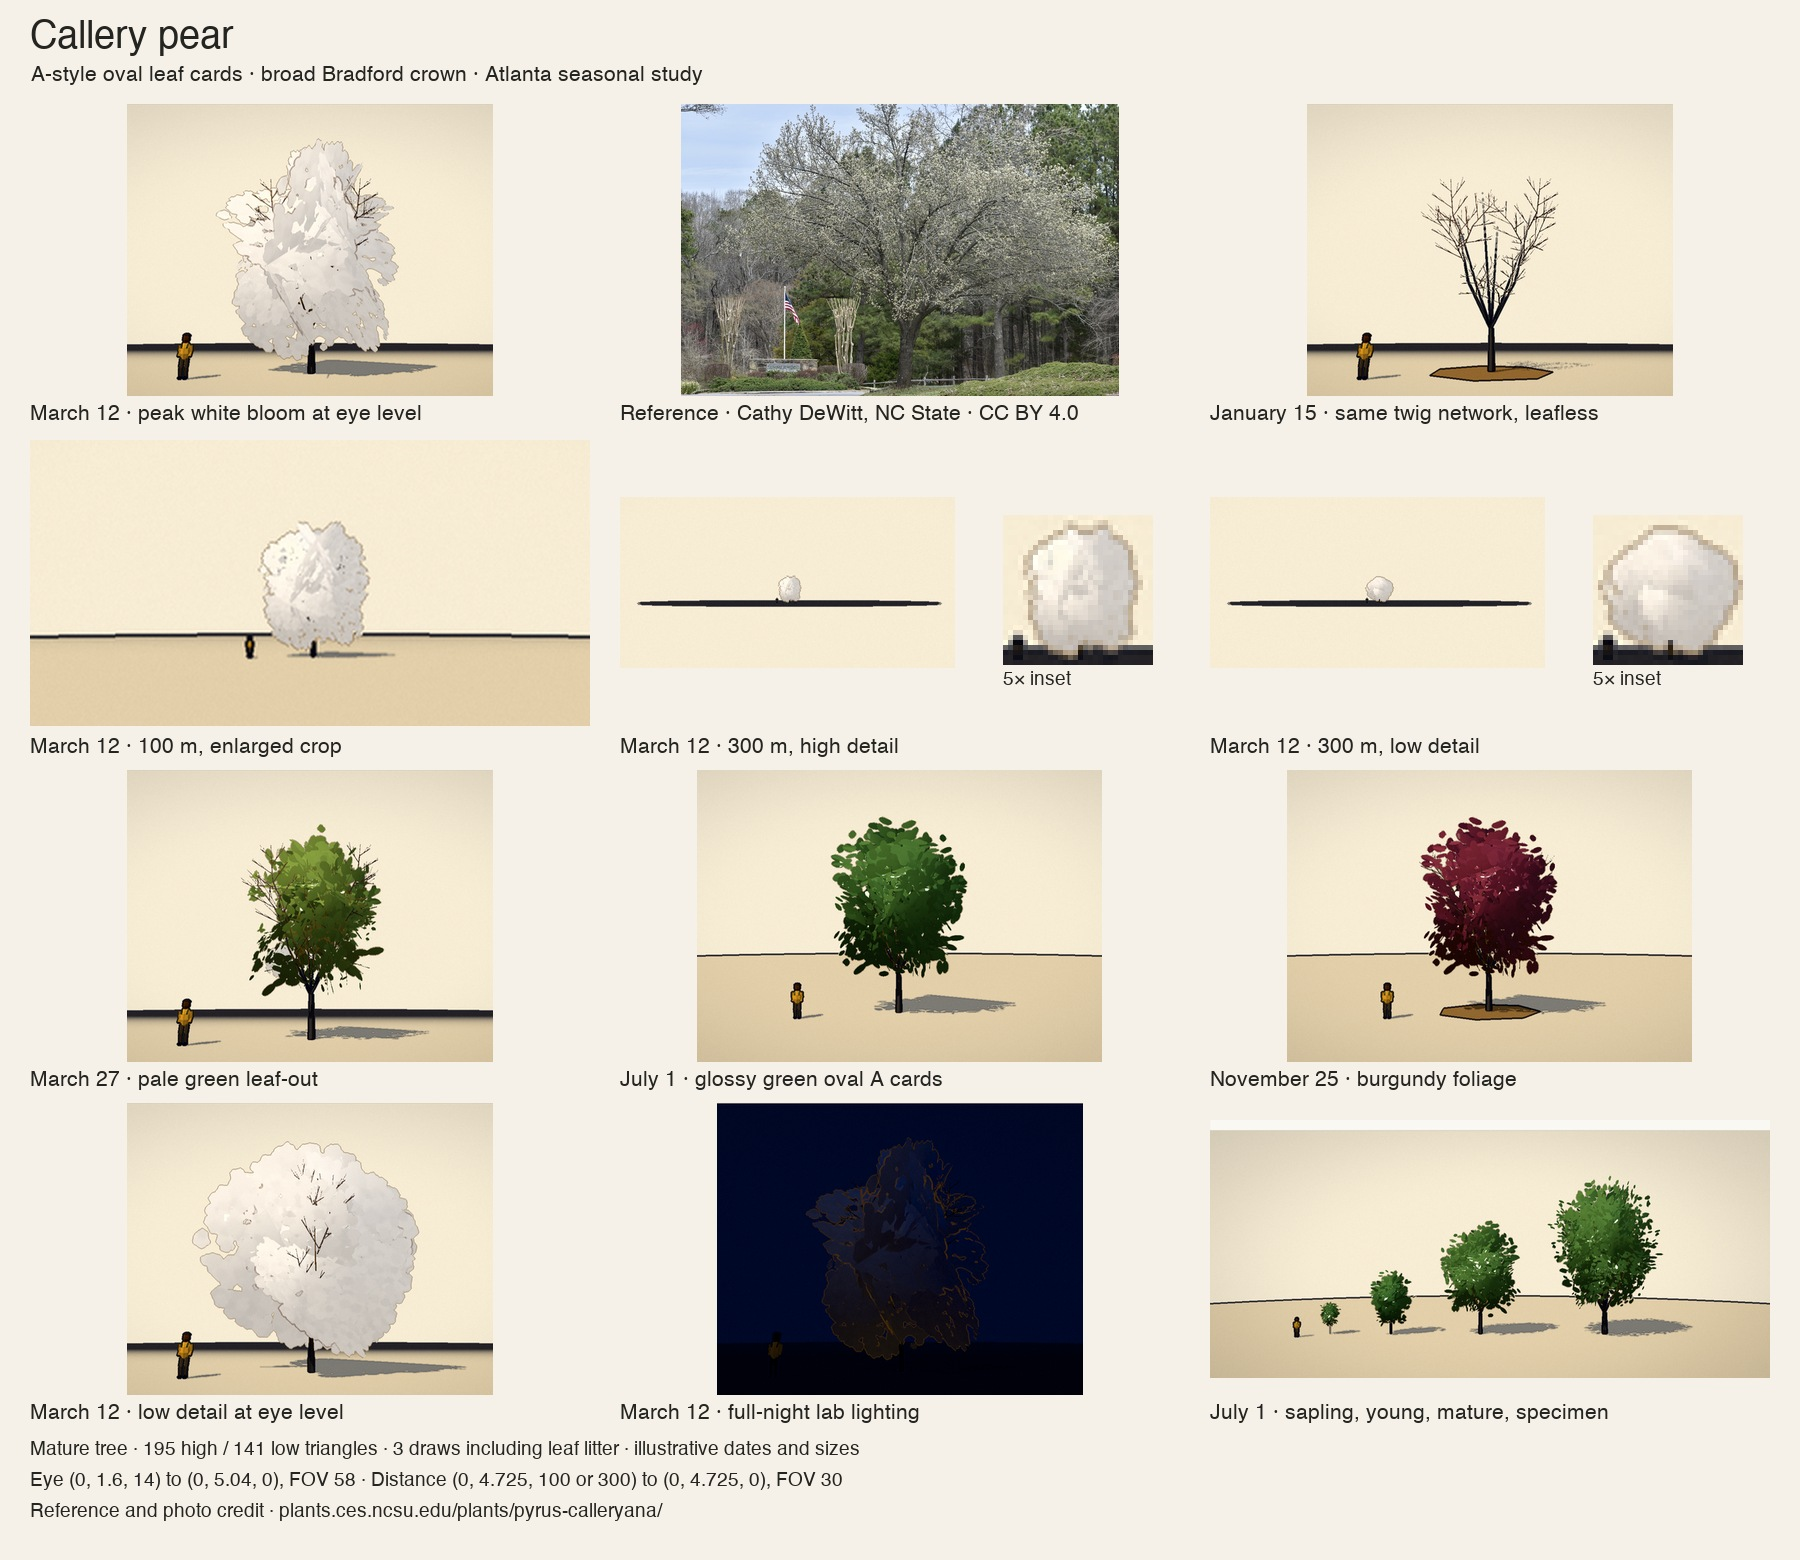
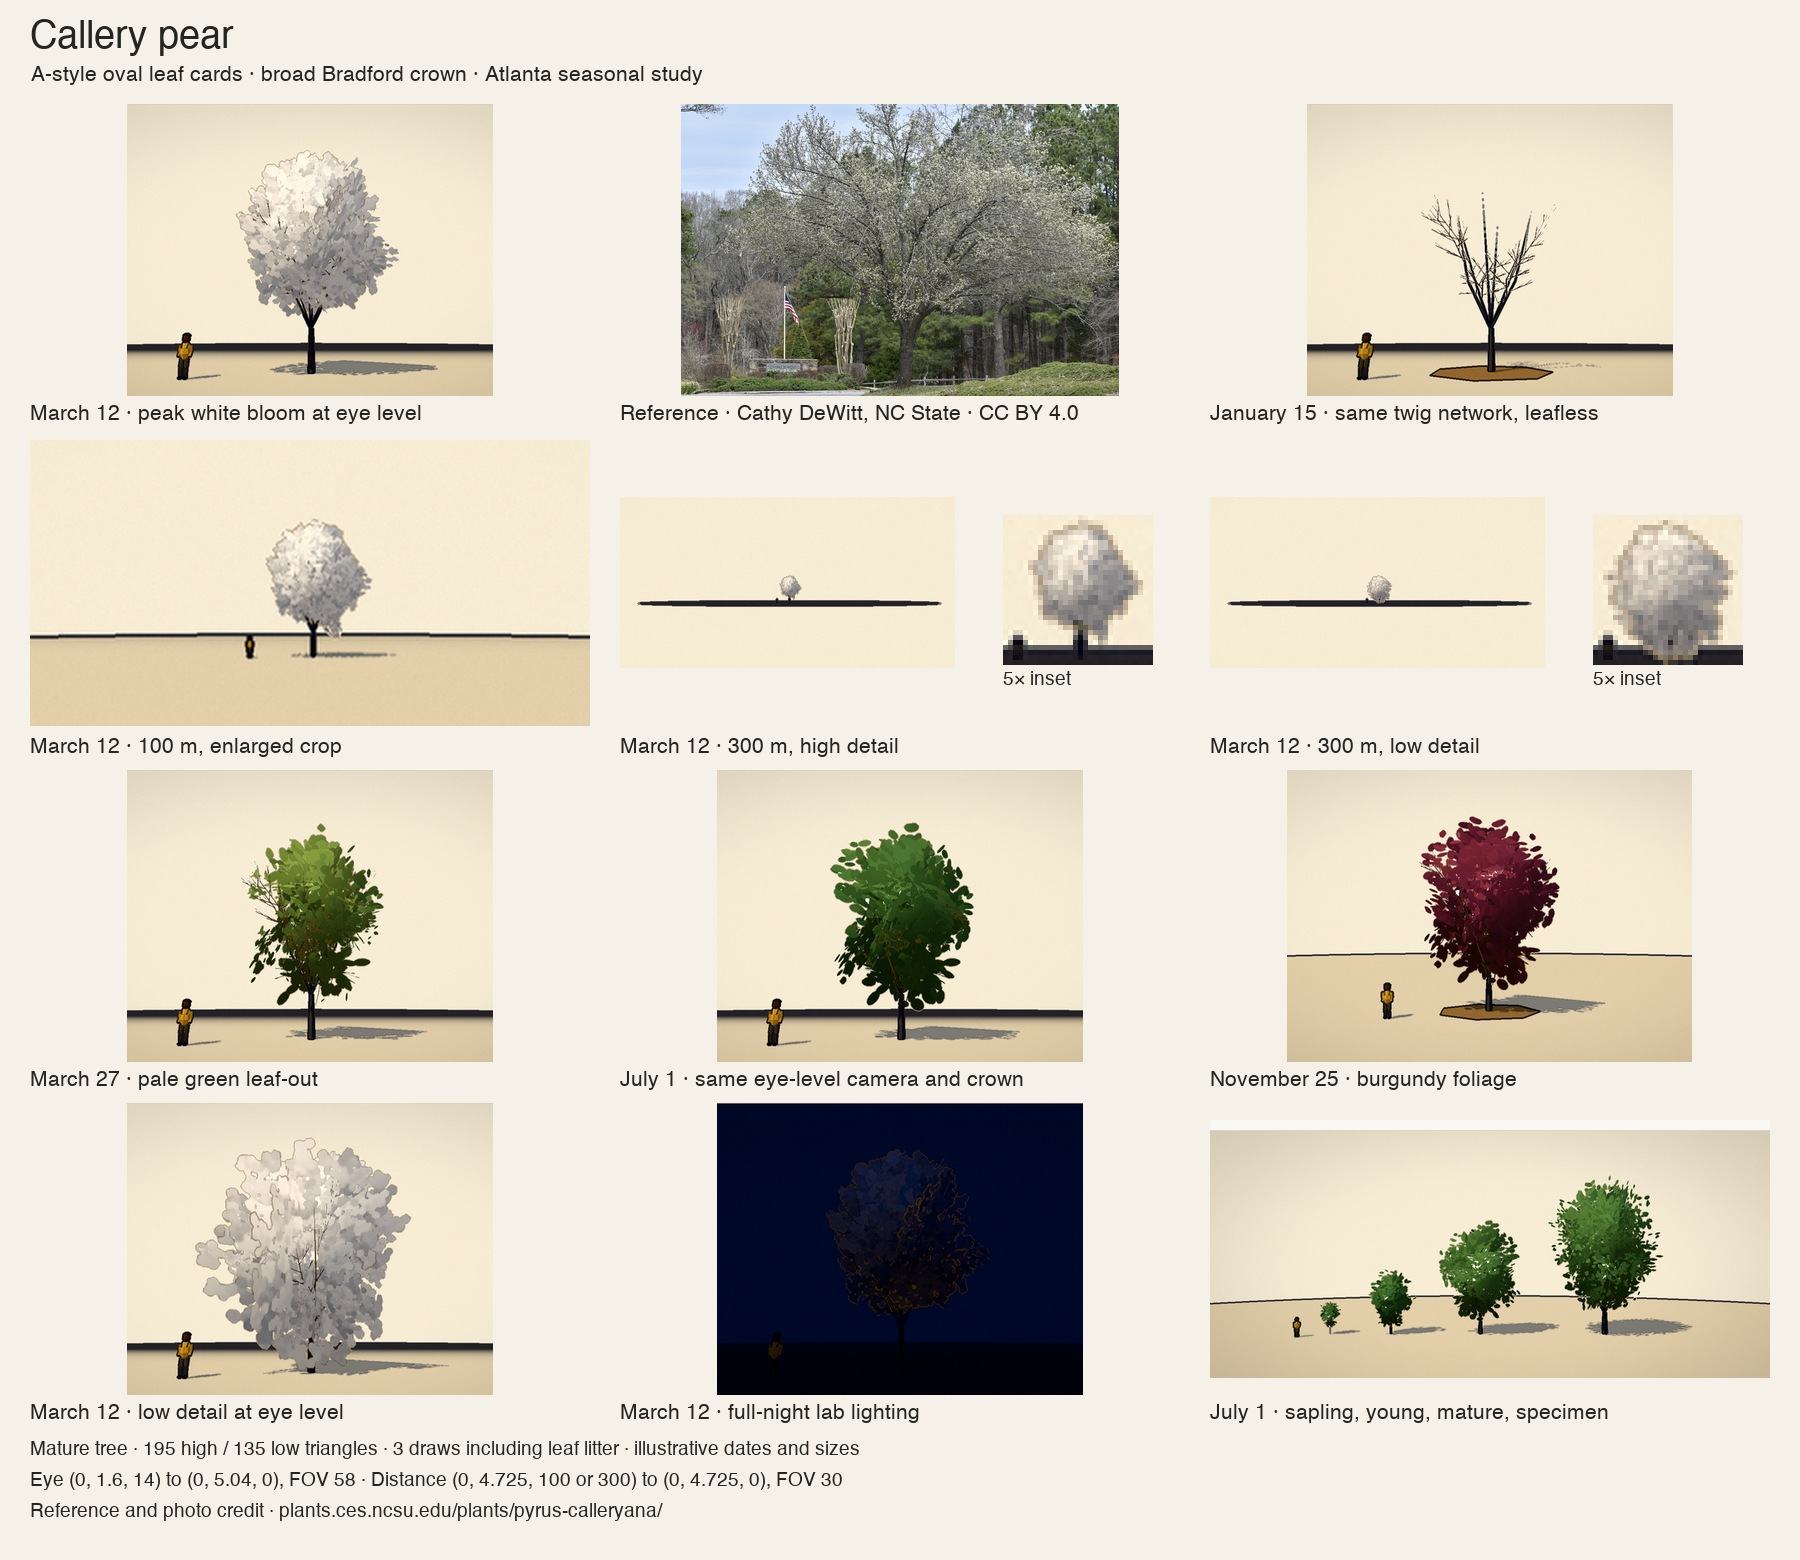
Break Callery pear bloom into shaded flower clusters

diff --git a/web/src/trees/foliage-kit.ts b/web/src/trees/foliage-kit.ts
@@ -357,7 +357,7 @@ export function twoToneFoliage({ bloomWash = 0, bloomLift = 0, bloomFill = 0, sp
       .replace('#include <project_vertex>', '#include <project_vertex>\nvFacePos = mvPosition.xyz;')
       .replace('#include <begin_vertex>', `#include <begin_vertex>
 vLeaves = aLeaves;
-vChip = aMass.z != 0.0 ? 1.0 : 0.0;
+vChip = aMass.z > 0.0 && aMass.y < 0.0 ? 2.0 : (aMass.z != 0.0 ? 1.0 : 0.0);
 if (aMass.z > 0.0) { if (aMass.z > aBloom.a) transformed = vec3(0.0); }
 if (aMass.z < 0.0 && aLeaves >= aMass.y) transformed = vec3(0.0);
 ${textured ? '' : 'else if (aMass.z == 0.0 && aMass.y > aLeaves) transformed = vec3(0.0);'}`);
@@ -373,6 +373,7 @@ ${textured ? '' : 'else if (aMass.z == 0.0 && aMass.y > aLeaves) transformed = v
         // (it also clears dark, steeply angled cards from the crown's interior).
         ? `float facing = abs(dot(normalize(cross(dFdx(vFacePos), dFdy(vFacePos))), normalize(vFacePos)));
 if (vChip < 0.5) diffuseColor.a *= smoothstep(0.12, 0.35, facing);
+if (vChip > 1.5) diffuseColor.a *= smoothstep(0.16, 0.48, facing);
 #include <alphatest_fragment>
 if (vChip < 0.5 && (vLeaves < 0.02 || diffuseColor.a < 1.0 - 0.44 * vLeaves - 0.005)) discard;`
         : '#include <alphatest_fragment>');
@@ -385,7 +386,7 @@ if (vChip < 0.5 && (vLeaves < 0.02 || diffuseColor.a < 1.0 - 0.44 * vLeaves - 0.
       sh.fragmentShader = sh.fragmentShader.replace('#include <map_fragment>', `#ifdef USE_MAP
   vec4 texel = texture2D(map, vMapUv);
   diffuseColor.a *= texel.a;
-  diffuseColor.rgb *= mix(1.0, texel.r, 0.25);
+  diffuseColor.rgb *= vChip > 1.5 ? texel.r : mix(1.0, texel.r, 0.25);
 #endif`);
     }
     if (specks > 0 && textured) {
@@ -507,25 +508,31 @@ function paintBranchFans(g: CanvasRenderingContext2D, ox: number, oy: number, wi
   }
 }
 
-/** Overlapping white corymbs in the pear's flower tile, with a loose edge and a dense centre. */
+/** A spray of small corymbs, separated by narrow gaps even at peak bloom. */
 function paintFlowerMass(g: CanvasRenderingContext2D, ox: number, oy: number) {
   const random = rng(712);
-  for (let i = 0; i < 480; i++) {
-    const a = random() * Math.PI * 2;
-    const r = 48 * Math.sqrt(random());
-    const x = ox + 54 + Math.cos(a) * r;
-    const y = oy + 54 + Math.sin(a) * r * 0.93;
-    const turn = random() * Math.PI;
-    const petal = 1.15 + random() * 0.9;
-    g.fillStyle = i % 7 === 0 ? '#ddd' : i % 3 === 0 ? '#eee' : '#fff';
-    g.beginPath();
-    for (let k = 0; k < 5; k++) {
-      const angle = turn + k * Math.PI * 2 / 5;
-      const px = x + Math.cos(angle) * petal, py = y + Math.sin(angle) * petal;
-      g.moveTo(px + petal, py);
-      g.arc(px, py, petal, 0, Math.PI * 2);
+  for (let i = 0; i < 76; i++) {
+    const angle = i * Math.PI * (3 - Math.sqrt(5));
+    const r = 47 * Math.sqrt((i + random()) / 76);
+    const x = ox + 54 + Math.cos(angle) * r + (random() - 0.5) * 5;
+    const y = oy + 54 + Math.sin(angle) * r * 0.93 + (random() - 0.5) * 5;
+    const grey = 202 + Math.floor(random() * 53);
+    for (let j = 0; j < 9; j++) {
+      const a = random() * Math.PI * 2;
+      const dist = 4.9 * Math.sqrt(random());
+      const px = x + Math.cos(a) * dist, py = y + Math.sin(a) * dist;
+      const petal = 0.8 + random() * 0.65;
+      const value = Math.min(255, grey + Math.floor(random() * 24));
+      g.fillStyle = `rgb(${value},${value},${value})`;
+      g.beginPath();
+      for (let k = 0; k < 5; k++) {
+        const turn = a + k * Math.PI * 2 / 5;
+        const fx = px + Math.cos(turn) * petal, fy = py + Math.sin(turn) * petal;
+        g.moveTo(fx + petal, fy);
+        g.arc(fx, fy, petal, 0, Math.PI * 2);
+      }
+      g.fill();
     }
-    g.fill();
   }
 }
 
@@ -537,21 +544,25 @@ export function crownBlossoms(b: FoliageBuilder, units: Unit[], seed: number) {
   const random = rng(seed);
   const up = new THREE.Vector3(0, 1, 0);
   const uv = fanUV(BLOOM_X);
+  const crownTop = Math.max(...units.map(u => u.c[1]));
   for (const [i, u] of units.entries()) {
     const c = new THREE.Vector3(...u.c);
-    const normal = new THREE.Vector3(...u.n).setY((random() - 0.5) * 1.25);
+    const normal = new THREE.Vector3(...u.n).setY((random() - 0.5) * 0.95).applyAxisAngle(up, (random() - 0.5) * 1.3);
     if (normal.lengthSq() < 0.05) normal.set(Math.cos(u.tone * 8), 0.3, Math.sin(u.tone * 8));
     normal.normalize();
     const across = up.clone().cross(normal).normalize();
     const rise = normal.clone().cross(across);
     // Dense cards fall away before leaf-out. A small late cluster can linger on the wood.
-    const w = u.r * (i === 0 ? 0.46 : 1.5);
+    const w = u.r * (i === 0 ? 0.43 : 1.28);
     const p = [[-1, -1], [1, -1], [1, 1], [-1, 1]].map(([x, y]) =>
       c.clone().addScaledVector(across, x * w).addScaledVector(rise, y * w * 0.99));
     const order = 0.24 + random() * 0.74;
     const opensAt = i === 0 ? 0.045 : order;
-    b.tri([p[0], p[1], p[2]], WHITE, u, [uv[0], uv[1], uv[2]], opensAt);
-    b.tri([p[0], p[2], p[3]], WHITE, u, [uv[0], uv[2], uv[3]], opensAt);
+    const colour = WHITE.clone().multiplyScalar(0.70 + 0.30 * Math.min(1, u.c[1] / crownTop));
+    // Negative drop is reserved for blossom cards that carry their own texture shading.
+    const petal = { tone: u.tone, drop: -1 };
+    b.tri([p[0], p[1], p[2]], colour, petal, [uv[0], uv[1], uv[2]], opensAt);
+    b.tri([p[0], p[2], p[3]], colour, petal, [uv[0], uv[2], uv[3]], opensAt);
   }
 }
 
@@ -591,9 +602,9 @@ export function branchBlooms(b: FoliageBuilder, segs: Seg[], d: Dims, seed: numb
     const turn = i % 4 === 1 ? -1 : 1;
     walk(inner, 0.64, turn * 0.98, 0.42, 0.19);
     walk(outer, 0.24, -turn * 0.65, 0.56, 0.32);
-    walk(outer, 0.68, turn * 0.36, 0.42, 0.22);
+    if (withFlowers) walk(outer, 0.68, turn * 0.36, 0.42, 0.22);
     // Shoots from opposing boughs fill the interior without making a solid canopy.
-    if (i === 1 || i === 5) walk(outer, 0.49, Math.PI - turn * 0.37, 0.53, 0.29);
+    if (withFlowers && (i === 1 || i === 5)) walk(outer, 0.49, Math.PI - turn * 0.37, 0.53, 0.29);
   }
 }
 

diff --git a/web/src/trees/callery-pear.ts b/web/src/trees/callery-pear.ts
@@ -8,7 +8,7 @@ const habit: Habit = {
   trunkTop: 0.25, crownBase: 0.13, widest: 0.36,
   limbs: { high: 4, low: 3 }, limbAngle: 1.1, limbFrom: [0.24, 0.37], limbReach: 0.9,
   ragged: 0.065, bark: '#736c65', barkDark: '#605a54',
-  mass: { r: 0.68, low: -0.76, high: 0.77 },
+  mass: { r: 0.63, low: -0.87, high: 0.77 },
   tiers: { high: [3, 4, 2], low: [3, 2, 1] },
   bySize: {
     sapling: { crownBase: 0.21, widest: 0.49 },
@@ -74,8 +74,8 @@ export const calleryPear: typeof base = {
 };
 export const calleryPearLook: Look = {
   species: calleryPear, habit, leaf: 'oval', palette,
-  bloomColour, bloomFill: 0.52, branchBloom: 'crown',
+  bloomColour, bloomFill: 0.29, branchBloom: 'crown',
   options: [{ id: 'A', label: 'Broad teardrop crown', technique: 'cards', ink: 2, specks: 0.05,
-    units: { high: 20, low: 13 }, cover: 1.12,
+    units: { high: 20, low: 13 }, cover: 1.2,
     note: 'Low upright boughs carry a full crown of white March bloom, glossy oval leaves in July and late burgundy foliage.' }],
 };

diff --git a/web/src/trees/looks.ts b/web/src/trees/looks.ts
@@ -218,10 +218,7 @@ export function lookFoliage(look: Look, opt: LookOption, size: SizeClass, q: Tre
   const clusters = lookClusters(look, opt, size, q, opt.units[q], seed);
   const b = new FoliageBuilder();
   if (look.branchBloom) branchBlooms(b, look.species.form(size, q, d).segs, d, seed, look.branchBloom === 'twigs');
-  if (look.branchBloom === 'crown') {
-    const flowerClusters = lookClusters(look, opt, size, q, q === 'high' ? 14 : 11, seed + 7);
-    crownBlossoms(b, flowerClusters, seed + 8);
-  }
+  if (look.branchBloom === 'crown') crownBlossoms(b, clusters, seed + 8);
   if (opt.blooms && (look.bloomColour || look.bloomColours)) blooms(b, clusters, opt.blooms[q], seed + 9, look.bloomSizeM);
   if (opt.technique === 'lobes') lobes(b, clusters, seed, opt.facets, opt.squash);
   else if (opt.technique === 'stars') needleStars(b, clusters, seed);

diff --git a/docs/tree-species.md b/docs/tree-species.md
@@ -926,10 +926,10 @@ Mature-tree cost is 193 / 138 triangles at high / low detail, including 56 / 44 
 
 ### Callery pear
 
-`web/src/trees/callery-pear.ts`, *Pyrus calleryana*. The first Model Lab study depicts the planted Bradford form. A has a low, full teardrop crown with crowded upright boughs. Larger sizes fork about 2 m up. Spring petal cards pack the crown with white corymbs until leaf-out. Summer uses glossy oval leaf cards on the same envelope. A few branch tips show through peak bloom, and twig planes simplify the winter branching. Small fruit and broken limbs are omitted. [Seasonal and distance sheet](log/ui/tree-species/options-callery-pear.jpg).
+`web/src/trees/callery-pear.ts`, *Pyrus calleryana*. The first Model Lab study depicts the planted Bradford form. A has a low, full teardrop crown with crowded upright boughs. Larger sizes fork about 2 m up. Spring and summer share the same crown clusters, with glossy oval leaves in summer and textured white corymbs in March. Spring uses alpha-cut cards with opaque petals, small gaps, and brighter tops over grey shaded undersides. The gaps reveal some grey-brown wood, and twig planes simplify the winter branching. Small fruit and broken limbs are omitted. [Seasonal and distance sheet](log/ui/tree-species/options-callery-pear.jpg).
 
 [NC State Extension](https://content.ces.ncsu.edu/callery-pear-bradford-pear-other-varieties-and-their-invasive-offspring) documents the Bradford crown, acute branch unions and early white flowers. [NC State Plant Toolbox](https://plants.ces.ncsu.edu/plants/pyrus-calleryana/) gives a 30–50 ft height and 20–35 ft spread for Callery pear, glossy ovate leaves and reddish-purple to bronze-red fall colour. The reference is Cathy DeWitt’s March 14 photograph from Warren County, North Carolina (CC BY 4.0). The sheet uses the ordinary Lab backdrop to show how the bloom reads in daylight at eye level, 100 m and 300 m. There is no matched night photograph.
 
 Nominal sapling, young, mature and specimen dimensions are 3 × 1.65 m, 6 × 3.6 m, 10.5 × 7 m and 14 × 10 m. The first two sizes and all callipers are estimated. The March bloom, spring leaf-out and late autumn colour dates are inferred for Atlanta, with four days of variation on either side. The inventory ranking is evidence of existing trees. This Lab study does not add any plantings to City.
 
-The mature model uses 195 / 141 triangles at high / low detail, three instanced draws including leaf litter, and no new texture allocation. Finer twig geometry and the petal cards share the existing oval atlas. Web rebuild only.
+The mature model uses 195 / 135 triangles at high / low detail, three instanced draws including leaf litter, and no new texture allocation. Finer twig geometry and the petal cards share the existing oval atlas. Web rebuild only.

diff --git a/docs/build-log.md b/docs/build-log.md
@@ -2992,3 +2992,7 @@ The first Model Lab study follows the oval Bradford form. Four sizes share an up
 ### 2026-11-23 — Callery pear fills out below the fork
 
 The first pear looked like white twigs above a long pole. The larger trees now fork at about 2 m, and a broad teardrop holds both the summer leaf cards and the March flower mass. Separate petal cards made the biggest difference at distance. The 300 m high-detail crown mask grew from 181 to 1,638 pixels, and the white mass reads on the ordinary Lab backdrop. A small late cluster can remain at leaf-out after the large flower cards have fallen. The mature tree costs 195 / 141 triangles, and July Front luminance is 0.242 / 0.250 against the generic canopy’s 0.248. [Side-by-side sheet with distance, winter and summer](log/ui/tree-species/options-callery-pear.jpg).
+
+### 2026-11-23 — Callery pear bloom gets texture and shade
+
+The full white silhouette worked at 300 m, but close up the bloom looked like sheets of cotton. Twenty small crown cards at high detail and thirteen at low now carry clusters of opaque petals, with small openings for the wood. The surprise was how much light contributed to the fluffy look. Restoring the atlas greys and the darker underside brought out detail without sacrificing the distant bloom. Spring and July use the same crown centers, with the lowest foliage around the 2 m fork in the mature tree. The cost is 195 / 135 triangles. [Matched eye-level and distance sheet](log/ui/tree-species/options-callery-pear.jpg).
